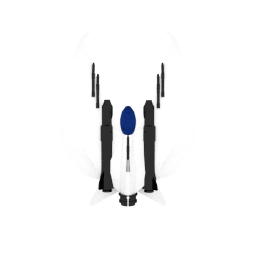
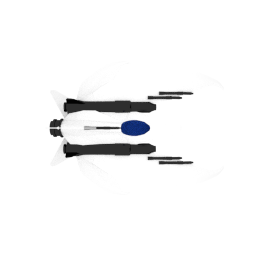
Added player controls & rotated sprite
Phaser assumes east facing sprites which luckily isn't mentioned or changeable. .

Also changes default controls from arrows to wasd.

Changed region(s): [[0.1875, 0.25, 0.75, 0.8125]]

diff --git a/src/js/scenes/game.js b/src/js/scenes/game.js
@@ -1,4 +1,5 @@
 import Ship from "../components/ship";
+import Phaser from 'phaser';
 
 export default class GameScene extends Phaser.Scene{
     create(){
@@ -23,8 +24,55 @@ export default class GameScene extends Phaser.Scene{
      
         this.cameras.main.startFollow(this.player);
 
+
+        
+        
+        this.cursors = this.createWASD();
+        console.log("Cursors: ", this.cursors);
+
     }
+
+    createWASD(){
+        // Returns object containing hotkeys needed for this game. 
+        return this.input.keyboard.addKeys({
+            w: Phaser.Input.Keyboard.KeyCodes.W,
+            a: Phaser.Input.Keyboard.KeyCodes.A,
+            s: Phaser.Input.Keyboard.KeyCodes.S,
+            d: Phaser.Input.Keyboard.KeyCodes.D,
+        });
+    }
+
+    handlePlayerKeys(){
+
+        if(this.cursors.w.isDown){
+            this.physics.velocityFromRotation(this.player.rotation, 200, this.player.body.acceleration);
+        } else if(this.cursors.s.isDown) {
+            this.physics.velocityFromRotation(this.player.rotation, -200, this.player.body.acceleration);
+        } else {
+            this.player.body.setAcceleration(0);
+        }
+
+
+        if(this.cursors.a.isDown){
+            console.log("AAA");
+            this.player.body.setAngularVelocity(-100);
+        } else if(this.cursors.d.isDown){
+            this.player.body.setAngularVelocity(100);
+        } else {
+            this.player.body.setAngularVelocity(0);
+        }
+
+
+ 
+    }
+
     update(){
         //Presumably this is loop
+        this.handlePlayerKeys();
+
+
+
+
+
     }
 }

diff --git a/src/js/components/ship.js b/src/js/components/ship.js
@@ -2,20 +2,11 @@ export default class Ship extends Phaser.GameObjects.Sprite{
     constructor(scene, x, y, texture){
         super(scene, x, y);
         this.setTexture(texture);
-        this.setPosition(x, y)
-        this.health = 100;
-        this.dx = 2;
-        this.dy = 0;
-
-
-
+    
     }
 
     preUpdate(time, delta){
         super.preUpdate(time, delta);
-        this.rotation += 0.01;
-
-        this.x -= this.dx;
-        this.y += this.dy;
+       
     }
 }
